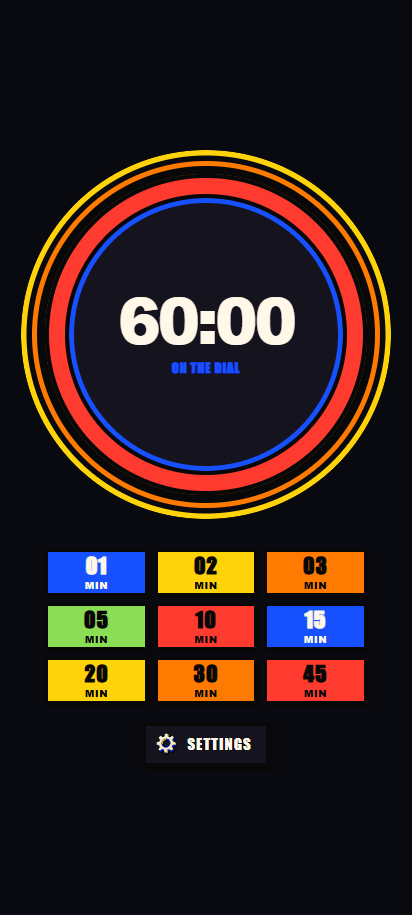
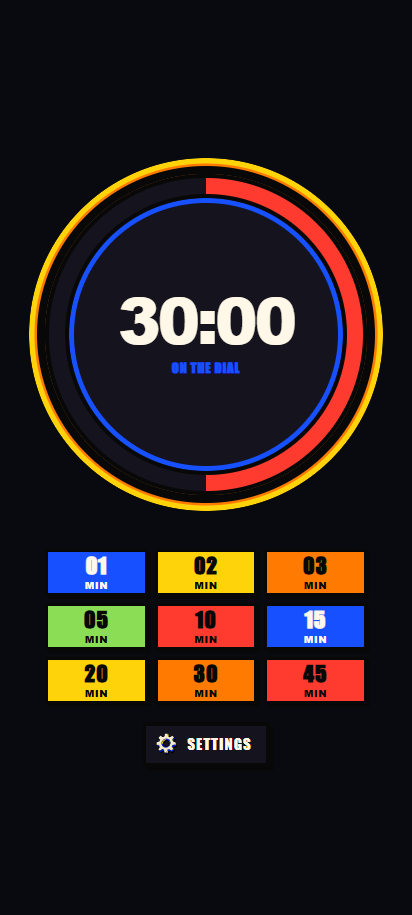
Render the second duration lap independently

Changed region(s): [[0.0291, 0.153, 0.9612, 0.5814], [0.2913, 0.306, 0.3786, 0.3672]]

diff --git a/test/ui-contract.test.js b/test/ui-contract.test.js
@@ -62,12 +62,16 @@ test("renders full duration orbits without an offset shadow or conic seam", () =
   assert.match(app, /classList\.toggle\("is-inner-full", trace\.inner >= 1\)/);
 });
 
-test("keeps only crisp opaque rings around the dial", () => {
+test("renders two independent duration laps without a permanently filled color ring", () => {
   assert.doesNotMatch(html, /dial-wisp/);
   assert.doesNotMatch(styles, /\.dial-wisp/);
   assert.doesNotMatch(styles, /mix-blend-mode:\s*screen/);
   assert.doesNotMatch(styles, /--pink|var\(--pink\)|preset-pink/);
-  assert.match(styles, /\.dial-progress\s*\{[^}]*box-shadow:\s*0 0 0 10px var\(--ink\), 0 0 0 16px var\(--orange\)/s);
+  assert.match(styles, /\.selection-trace\s*\{[^}]*z-index:\s*3/s);
+  assert.match(styles, /\.selection-trace-outer\s*\{[^}]*inset:\s*-16px/s);
+  assert.match(styles, /\.selection-trace-inner\s*\{[^}]*inset:\s*-26px/s);
+  assert.match(styles, /\.dial-progress\s*\{[^}]*box-shadow:\s*0 0 0 10px var\(--ink\)/s);
+  assert.doesNotMatch(styles, /0 0 0 16px var\(--orange\)/);
   assert.match(styles, /\.dial-face\s*\{[^}]*box-shadow:\s*inset 0 0 0 7px var\(--blue\)/s);
 });
 
@@ -83,7 +87,7 @@ test("removes the screensaver feature and its moving background layer", () => {
 test("keeps the dial and shortcut layout centered", () => {
   assert.match(styles, /\.timer-layout\s*\{[^}]*justify-items:\s*center/s);
   assert.match(styles, /\.dial-zone\s*\{[^}]*place-items:\s*center/s);
-  assert.match(styles, /\.dial-progress\s*\{[^}]*box-shadow:\s*0 0 0 10px var\(--ink\), 0 0 0 16px var\(--orange\)/s);
+  assert.match(styles, /\.dial-progress\s*\{[^}]*box-shadow:\s*0 0 0 10px var\(--ink\)/s);
   assert.match(styles, /\.side-panel\s*\{[^}]*width:\s*min\(368px, 68vw\)/s);
   assert.match(styles, /\.preset-grid\s*\{[^}]*grid-template-columns:\s*repeat\(3, 1fr\)/s);
   assert.match(styles, /\.preset-grid\s*\{[^}]*gap:\s*7px/s);

diff --git a/src/web/styles.css b/src/web/styles.css
@@ -333,7 +333,7 @@ html.native-android .timer-dial {
 
 .selection-trace {
   position: absolute;
-  z-index: 1;
+  z-index: 3;
   display: block;
   border-radius: 50%;
   pointer-events: none;
@@ -353,12 +353,14 @@ html.native-android .timer-dial {
 
 .selection-trace-outer {
   --trace: var(--trace-outer);
-  inset: -24px;
+  /* Lap one sits closest to the red time bar and completes at 30:00. */
+  inset: -16px;
 }
 
 .selection-trace-inner {
   --trace: var(--trace-inner);
-  inset: -12px;
+  /* Lap two is the outermost ring and fills only from 30:00 to 60:00. */
+  inset: -26px;
 }
 
 .timer-dial {
@@ -396,7 +398,7 @@ html.native-android .timer-dial {
   border: 5px solid var(--ink);
   border-radius: 50%;
   background: conic-gradient(from 0deg, var(--red) var(--progress), var(--paper) 0);
-  box-shadow: 0 0 0 10px var(--ink), 0 0 0 16px var(--orange);
+  box-shadow: 0 0 0 10px var(--ink);
   place-items: center;
   transition: transform 130ms ease;
 }

diff --git a/docs/CURRENT_TASK.md b/docs/CURRENT_TASK.md
@@ -2,12 +2,19 @@
 
 ## Objective
 
-Make the two duration traces close only at their exact 30:00 and 60:00
-boundaries, remove the screensaver background feature completely, and expand
-Settings to eight mostly pink-free color schemes for native Android 1.0.11.
+Correct the Android-visible two-lap indicator so one ring fills from 0–30
+minutes and a separate outermost ring fills from 30–60 minutes, then publish
+the corrected native Android build as version 1.0.12.
 
 ## Implementation state
 
+- Found the visual bug missed by the 1.0.11 math test: a permanently filled
+  orange `box-shadow` looked like the second lap while the actual second trace
+  was layered beneath the timer.
+- Removed that decorative color ring, raised both real traces above the dial,
+  placed lap one nearest the red time bar, and placed lap two outside it.
+- At 30:00 only lap one is full; at 45:00 the outermost lap is half full; at
+  60:00 both are full.
 - Removed the screensaver layer, all three selectors, animation state and frame
   loop, persisted mode, CSS, documentation, tests, and generated artwork.
 - Settings now contains eight persistent theme choices: Dark, Light, Cobalt,
@@ -26,6 +33,19 @@ Settings to eight mostly pink-free color schemes for native Android 1.0.11.
 
 ## Verification
 
+- Android-sized visual captures for the corrected sequence:
+  `output/playwright/android-v1.0.12-laps-3000.png`,
+  `android-v1.0.12-laps-4500.png`, and `android-v1.0.12-laps-6000.png`.
+- The browser console reported zero errors and warnings during this sequence.
+- The UI contract now rejects a permanently filled orange ring and verifies
+  the two independently positioned trace layers.
+- `npm run check`: 16/16 tests passed for version 1.0.12.
+- `npm run android:apk`: successful with JDK 21. The packaged CSS was read back
+  from the APK and confirms both lap positions, foreground layering, and the
+  absence of the old orange ring.
+- APK size: 16,007,432 bytes.
+- APK SHA-256:
[1 lines of base64/hex data omitted]
 - `npm run check`: 16/16 tests passed. Regression coverage includes incomplete
   29:59 and 59:59 laps, exact 30:00 and 60:00 closure, eight themes, no
   screensaver runtime, and no pink interface token.
@@ -47,6 +67,9 @@ Settings to eight mostly pink-free color schemes for native Android 1.0.11.
 
 ## Release state
 
+- Local artifacts are in the workspace `outputs/` folder:
+  `OvoTimer-Android-1.0.12-debug.apk` and `SHA256SUMS-1.0.12.txt`.
+- Version 1.0.12 is pending GitHub publication and Google Drive upload.
 - [`v1.0.10`](https://github.com/remriel/ovo-timer-cross-platform/releases/tag/v1.0.10)
   is the last published GitHub and Drive build.
 - Local artifacts are in the workspace `outputs/` folder:

diff --git a/README.md b/README.md
@@ -9,20 +9,21 @@ and is not affiliated with Ilumbo.
 ## Screenshots
 
 <p align="center">
-  <img src="docs/screenshots/ovo-idle.png" alt="Ovo Timer with both duration laps closed at exactly 60 minutes" width="31%" />
-  <img src="docs/screenshots/ovo-running.png" alt="Ovo Timer showing the final duration seam at 59 minutes 59 seconds" width="31%" />
-  <img src="docs/screenshots/ovo-paused.png" alt="Ovo Timer separate Settings screen with eight color themes" width="31%" />
+  <img src="docs/screenshots/ovo-idle.png" alt="Ovo Timer at 30 minutes with only the first duration ring complete" width="31%" />
+  <img src="docs/screenshots/ovo-running.png" alt="Ovo Timer at 45 minutes with the outermost duration ring halfway complete" width="31%" />
+  <img src="docs/screenshots/ovo-paused.png" alt="Ovo Timer at 60 minutes with both duration rings complete" width="31%" />
 </p>
 
-<p align="center"><em>Exact 60:00 closure · Final seam · Eight colorways</em></p>
+<p align="center"><em>30:00 first ring · 45:00 outer ring halfway · 60:00 both complete</em></p>
 
 ## What it does
 
 - Set a countdown from 10 seconds to 60 minutes by dragging the visible
   colored progress band around the clock.
-- Follow a two-lap duration trace around the dial: 30 minutes fills the first
-  orbit, 60 minutes fills both, and each orbit keeps a visible final seam until
-  its exact 30:00 or 60:00 boundary. The trace empties with the remaining time.
+- Follow two independently rendered duration rings around the dial. The inner
+  ring fills from 0 to 30 minutes. The outermost ring starts at 30:00, reaches
+  halfway at 45:00, and closes at 60:00. Each ring keeps a final seam until its
+  exact boundary, and both empty with the remaining time.
 - Tap the inner clock face to start or pause. Releasing a progress-band drag
   starts the newly selected countdown; Space pauses/resumes and R resets.
 - Choose 1, 2, 3, 5, 10, 15, 20, 30, or 45-minute presets from a compact

diff --git a/CHANGELOG.md b/CHANGELOG.md
@@ -1,5 +1,14 @@
 # Changelog
 
+## 1.0.12
+
+- Removed the permanently filled orange dial border that visually imitated a
+  second progress lap and made the timer appear maxed out at 30 minutes.
+- Positioned the first duration ring closest to the red time bar; it fills from
+  0 to 30 minutes.
+- Added a separately rendered outermost duration ring that starts at 30:00,
+  reaches halfway at 45:00, and closes only at exactly 60:00.
+
 ## 1.0.11
 
 - Kept a visible one-degree seam on every incomplete duration lap so the first
